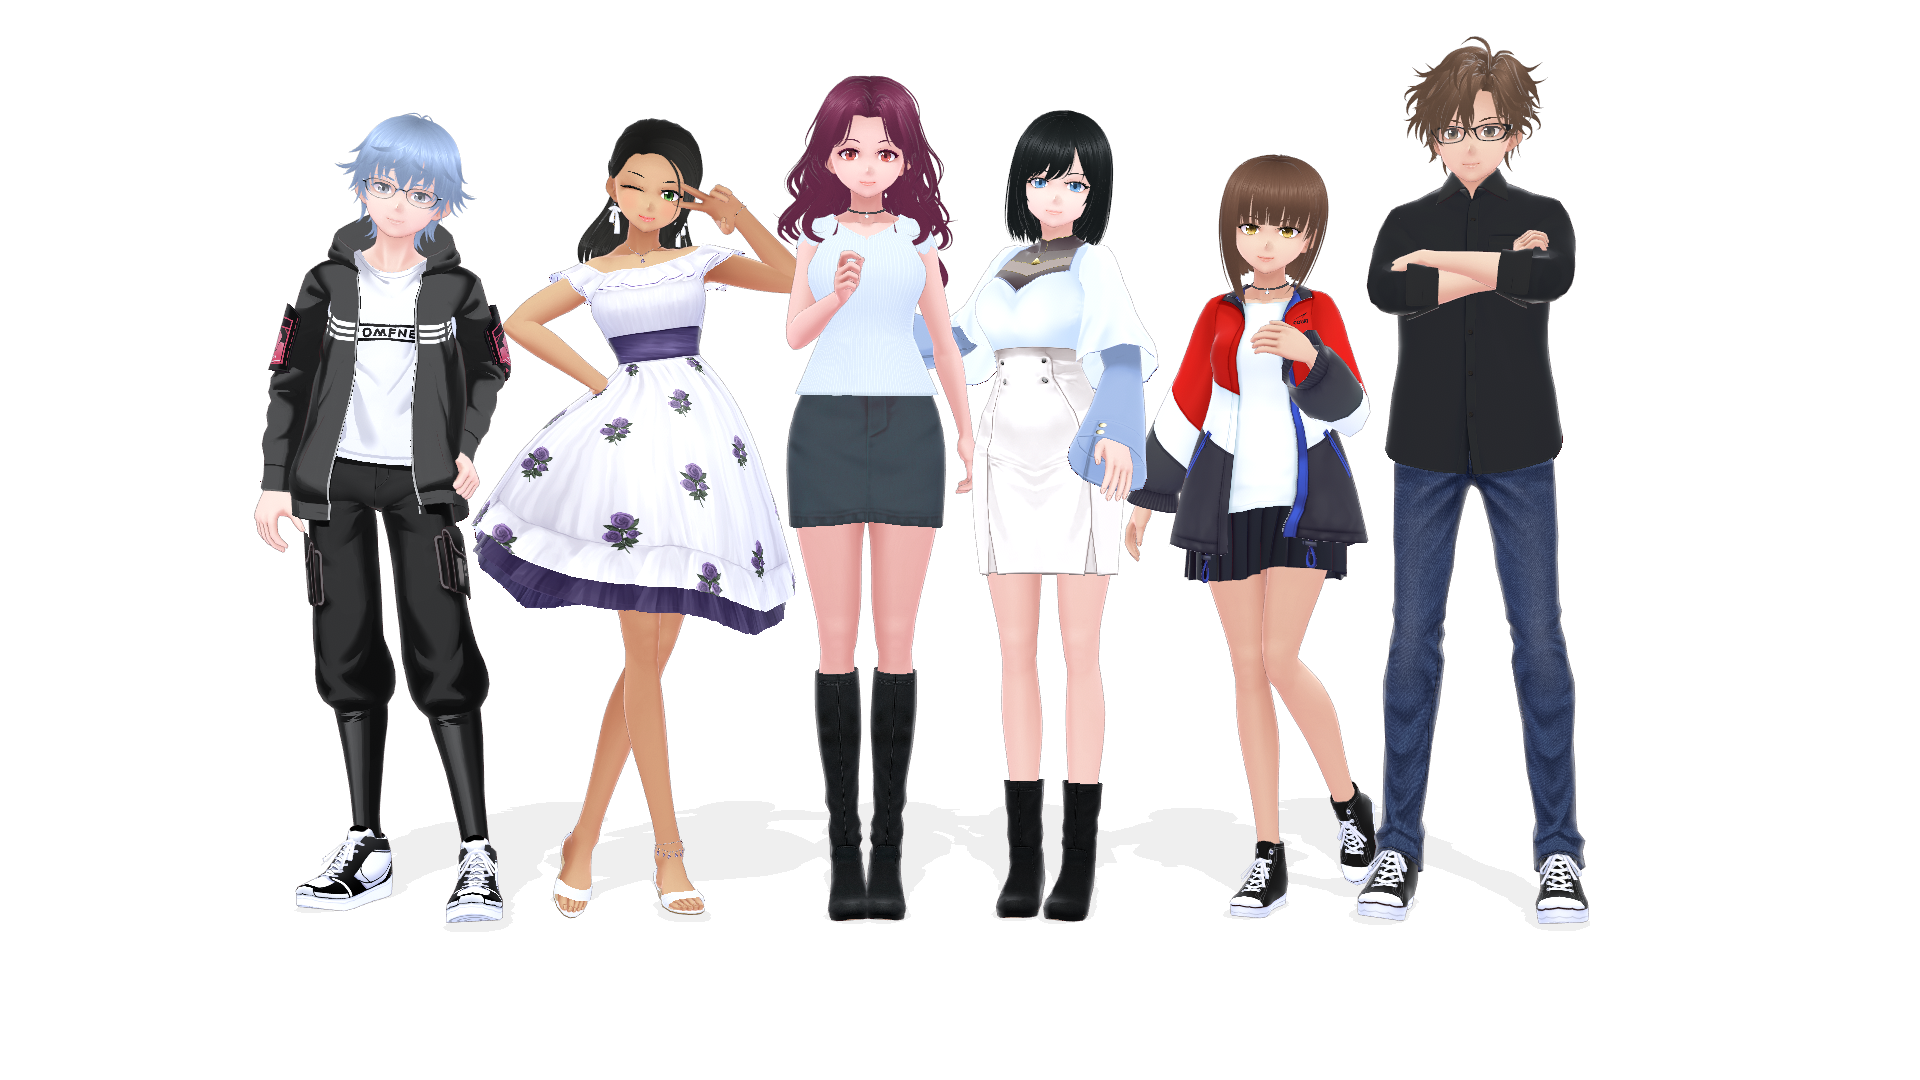
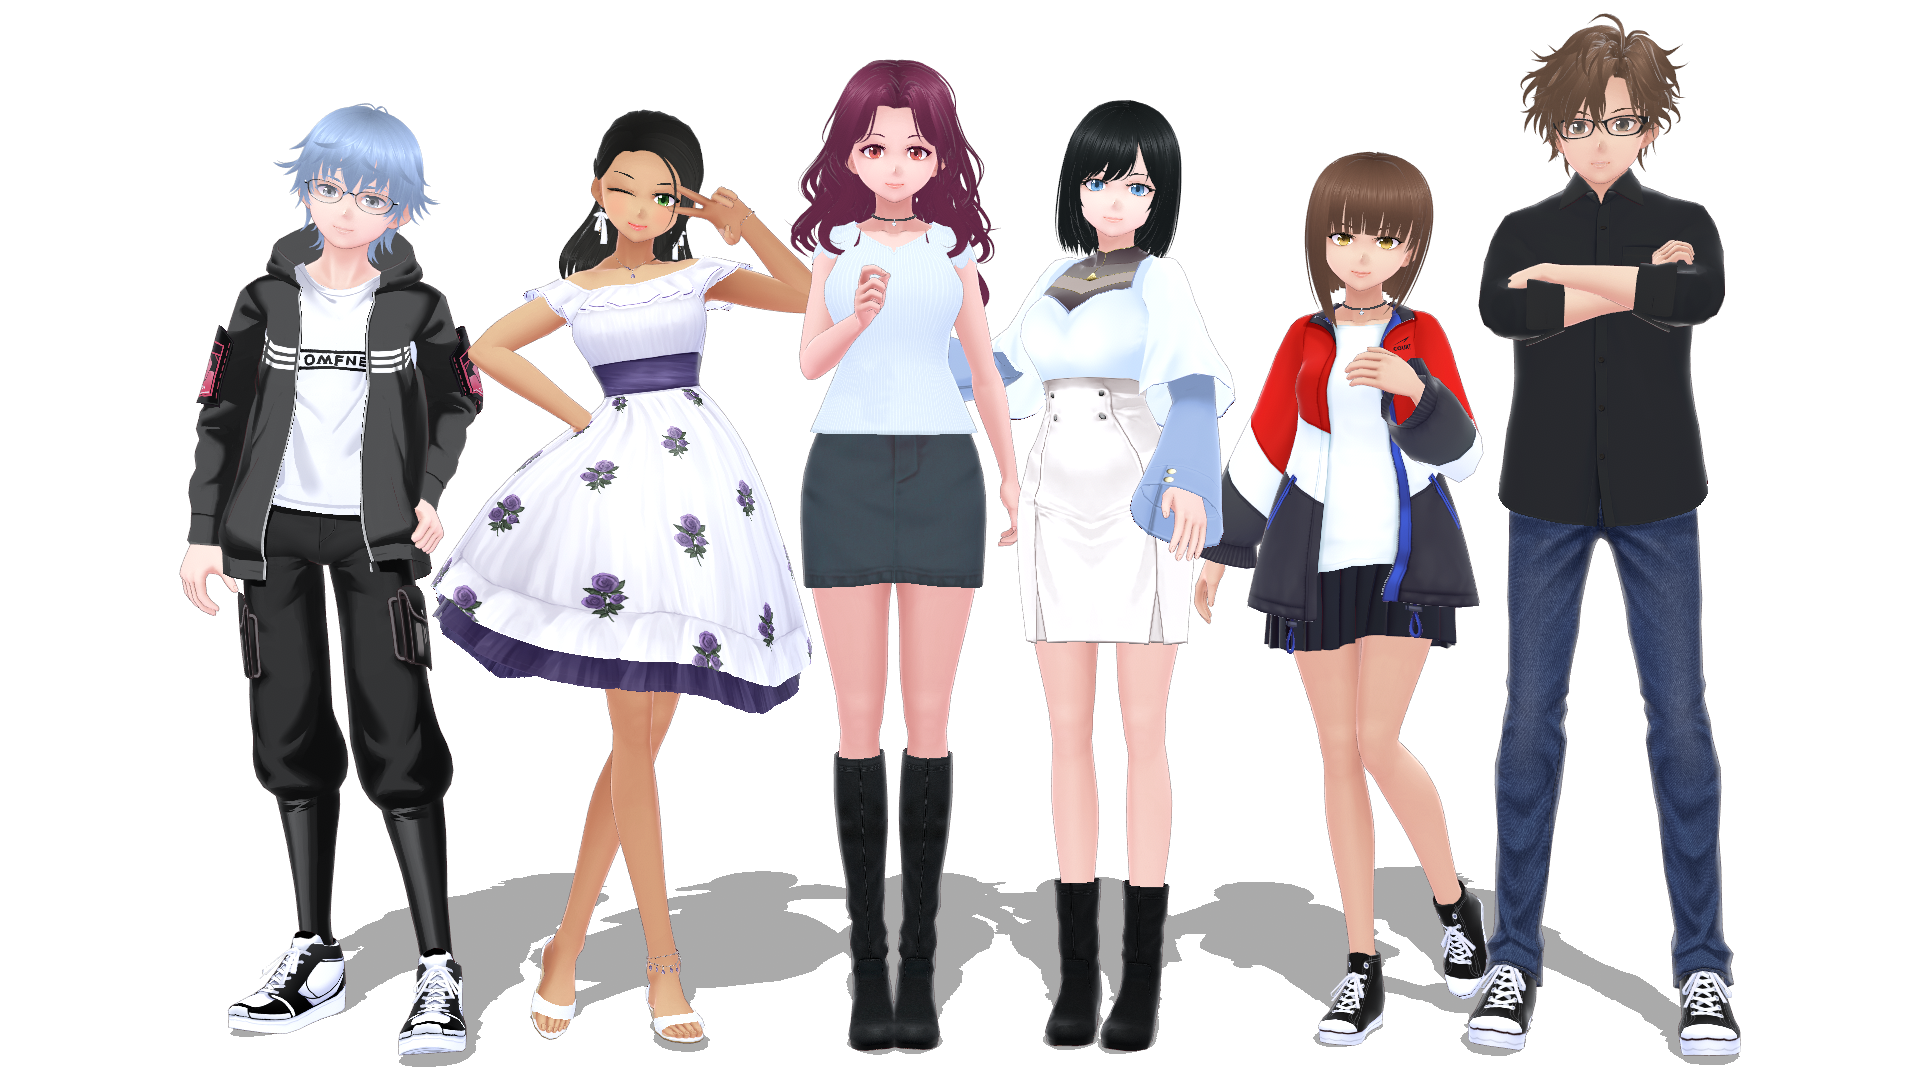
error css theme

diff --git a/css/asebabd.css b/css/asebabd.css
@@ -18,7 +18,7 @@
     ),
     linear-gradient(135deg, #bbbbbb 0%, #ebebeb 50%, #bbbbbb 100%);
   background-position: top center, left top, left top;
-  background-size: 100vw, 50px 50px, 100%;
+  background-size: contain, 50px 50px, 100%;
   background-repeat: no-repeat, repeat, no-repeat;
 }
 

diff --git a/js/theme.js b/js/theme.js
@@ -84,7 +84,7 @@ let datostheme = [
     },
     {
         name: "Emily",
-        file: "css/Emily.css",
+        file: "css/emily.css",
         type: ['default', 'Url'],
         urlCodigo: 10
     },
